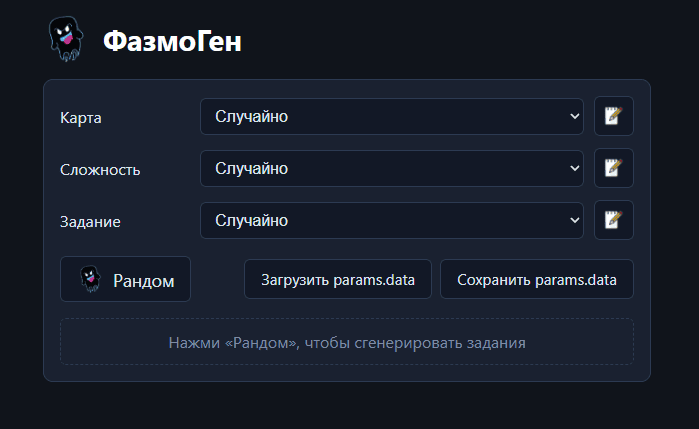
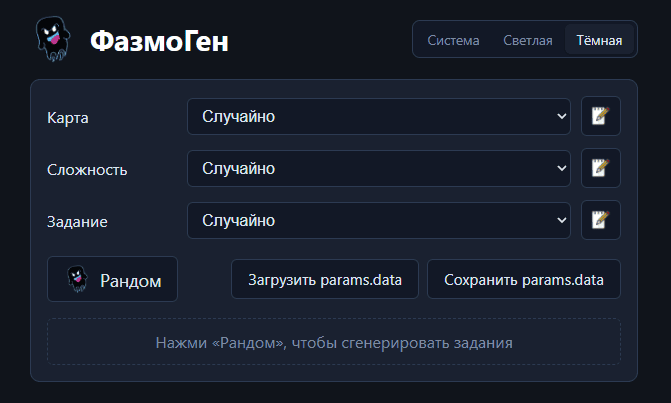
Поддержка тем

diff --git a/src/App.vue b/src/App.vue
@@ -3,10 +3,18 @@ import { ref } from 'vue'
 import ListSelect from './components/ListSelect.vue'
 import ListEditor from './components/ListEditor.vue'
 import { usePhasmaLists } from './composables/usePhasmaLists'
+import { useTheme } from './composables/useTheme'
 import { version } from '../package.json'
 import ghostIcon from './assets/ghost.png'
 
 const { state, results, saveList, generate, importFile, exportFile } = usePhasmaLists()
+const { mode, setMode } = useTheme()
+
+const themeOptions = [
+  { value: 'system', label: 'Система' },
+  { value: 'light', label: 'Светлая' },
+  { value: 'dark', label: 'Тёмная' },
+]
 
 const editorKey = ref(null)
 const editorTitles = {
@@ -33,6 +41,17 @@ const generateNew = () => generate(5)
     <header class="app-header">
       <img :src="ghostIcon" class="app-ghost" alt="ФазмоГен" />
       <h1 class="app-title">ФазмоГен</h1>
+      <div class="theme-switch" role="group" aria-label="Тема оформления">
+        <button
+          v-for="opt in themeOptions"
+          :key="opt.value"
+          type="button"
+          :class="['theme-btn', { active: mode === opt.value }]"
+          @click="setMode(opt.value)"
+        >
+          {{ opt.label }}
+        </button>
+      </div>
     </header>
 
     <section class="panel">
@@ -109,6 +128,35 @@ const generateNew = () => generate(5)
   margin: 0;
   font-size: 1.8rem;
   color: var(--color-heading);
+}
+
+.theme-switch {
+  margin-left: auto;
+  display: inline-flex;
+  padding: 3px;
+  background: var(--color-input);
+  border: 1px solid var(--color-border);
+  border-radius: 8px;
+}
+
+.theme-btn {
+  padding: 6px 12px;
+  font-size: 0.85rem;
+  color: var(--color-muted);
+  background: transparent;
+  border: none;
+  border-radius: 6px;
+  cursor: pointer;
+}
+
+.theme-btn:hover {
+  color: var(--color-text);
+}
+
+.theme-btn.active {
+  color: var(--color-text);
+  background: var(--color-surface);
+  box-shadow: 0 1px 3px rgba(0, 0, 0, 0.25);
 }
 
 .panel {

diff --git a/src/composables/useTheme.js b/src/composables/useTheme.js
@@ -1,0 +1,31 @@
+import { ref } from 'vue'
+
+const THEME_KEY = 'phrandom.theme'
+const MODES = ['system', 'light', 'dark']
+
+const stored = localStorage.getItem(THEME_KEY)
+const mode = ref(MODES.includes(stored) ? stored : 'system')
+
+const media = window.matchMedia('(prefers-color-scheme: light)')
+
+const apply = () => {
+  const current = mode.value === 'system' ? (media.matches ? 'light' : 'dark') : mode.value
+  document.documentElement.setAttribute('data-theme', current)
+}
+
+const setMode = (value) => {
+  if (!MODES.includes(value)) return
+  mode.value = value
+  localStorage.setItem(THEME_KEY, value)
+  apply()
+}
+
+apply()
+
+media.addEventListener('change', () => {
+  if (mode.value === 'system') apply()
+})
+
+export function useTheme() {
+  return { mode, setMode, MODES }
+}

diff --git a/src/style.css b/src/style.css
@@ -1,12 +1,27 @@
 :root {
+  color-scheme: dark;
   --color-bg: #10141b;
   --color-surface: #1a2130;
   --color-input: #121826;
+  --color-input-hover: #1a2232;
   --color-border: #2c3a52;
   --color-text: #dde4f0;
   --color-heading: #ffffff;
   --color-muted: #7d8aa5;
   --color-accent: #4f8cff;
+}
+
+[data-theme='light'] {
+  color-scheme: light;
+  --color-bg: #eef2f7;
+  --color-surface: #ffffff;
+  --color-input: #f4f6fa;
+  --color-input-hover: #e9edf3;
+  --color-border: #c9d3e0;
+  --color-text: #1c2530;
+  --color-heading: #0f1620;
+  --color-muted: #5c6b80;
+  --color-accent: #2f6fdd;
 }
 
 * {
@@ -42,7 +57,7 @@ button {
 
 .btn:hover {
   border-color: var(--color-accent);
-  background: #1a2232;
+  background: var(--color-input-hover);
 }
 
 .btn-primary {

diff --git a/README.md b/README.md
@@ -7,9 +7,13 @@
 * случайная сложность
 * случайное испытание
 
+### Исправления
+* Добавлена поддержка тем [18.08.2026]
+
 Наборы карт, сложности и испытаний можно редактировать.
 
-![Интерфейс](images/image1.PNG)
+![Интерфейс темная тема](images/image1.PNG)
+![Интерфейс светлая тема](images/image2.PNG)
 
 ## Как начать пользоваться
 * Скачайте файл из раздела Releases
